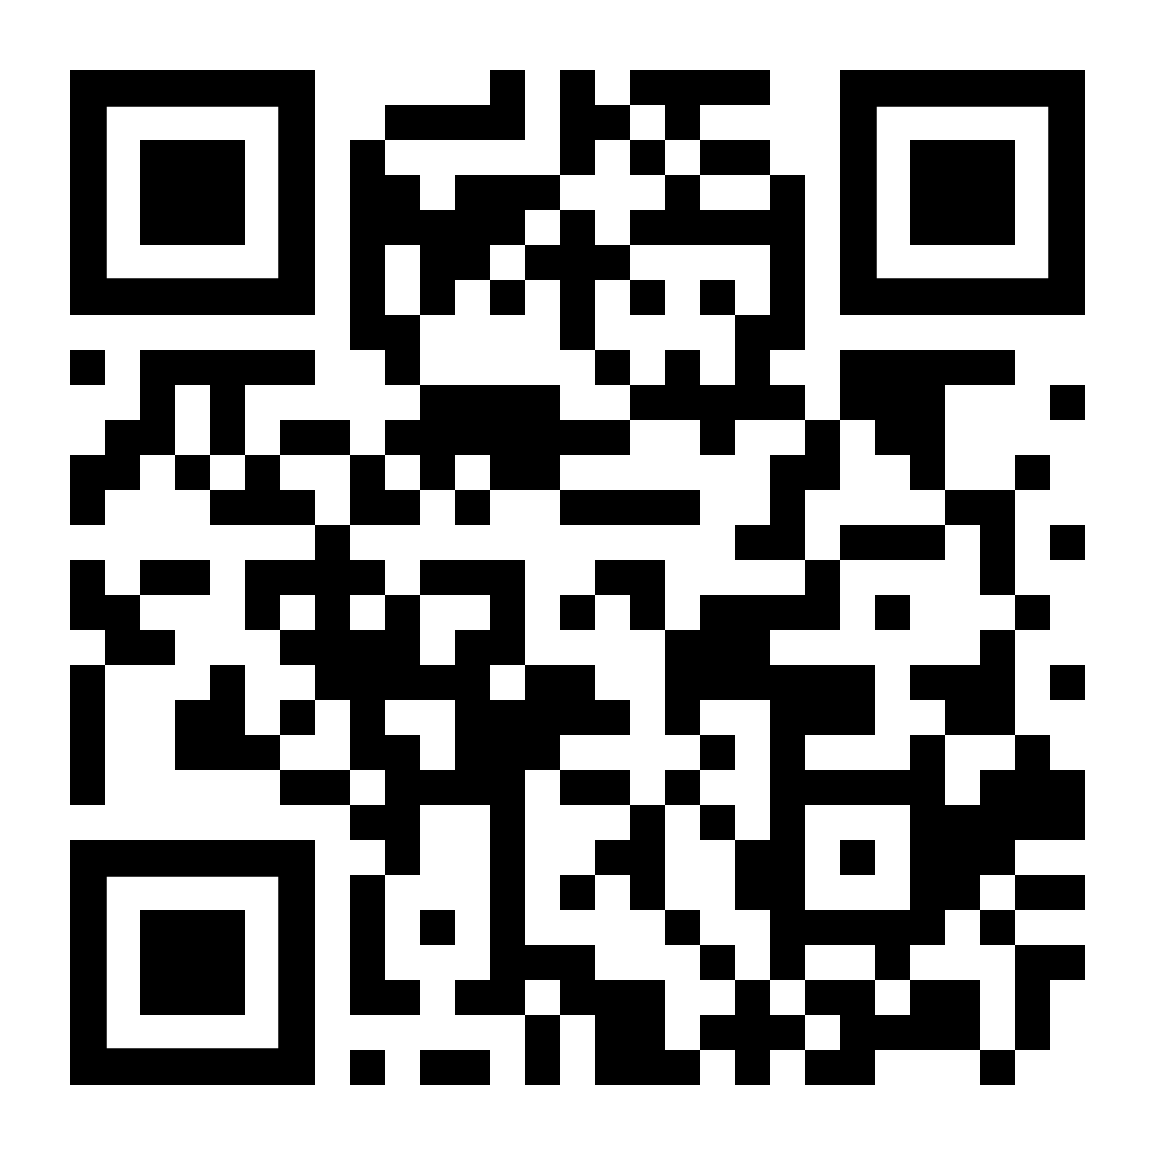
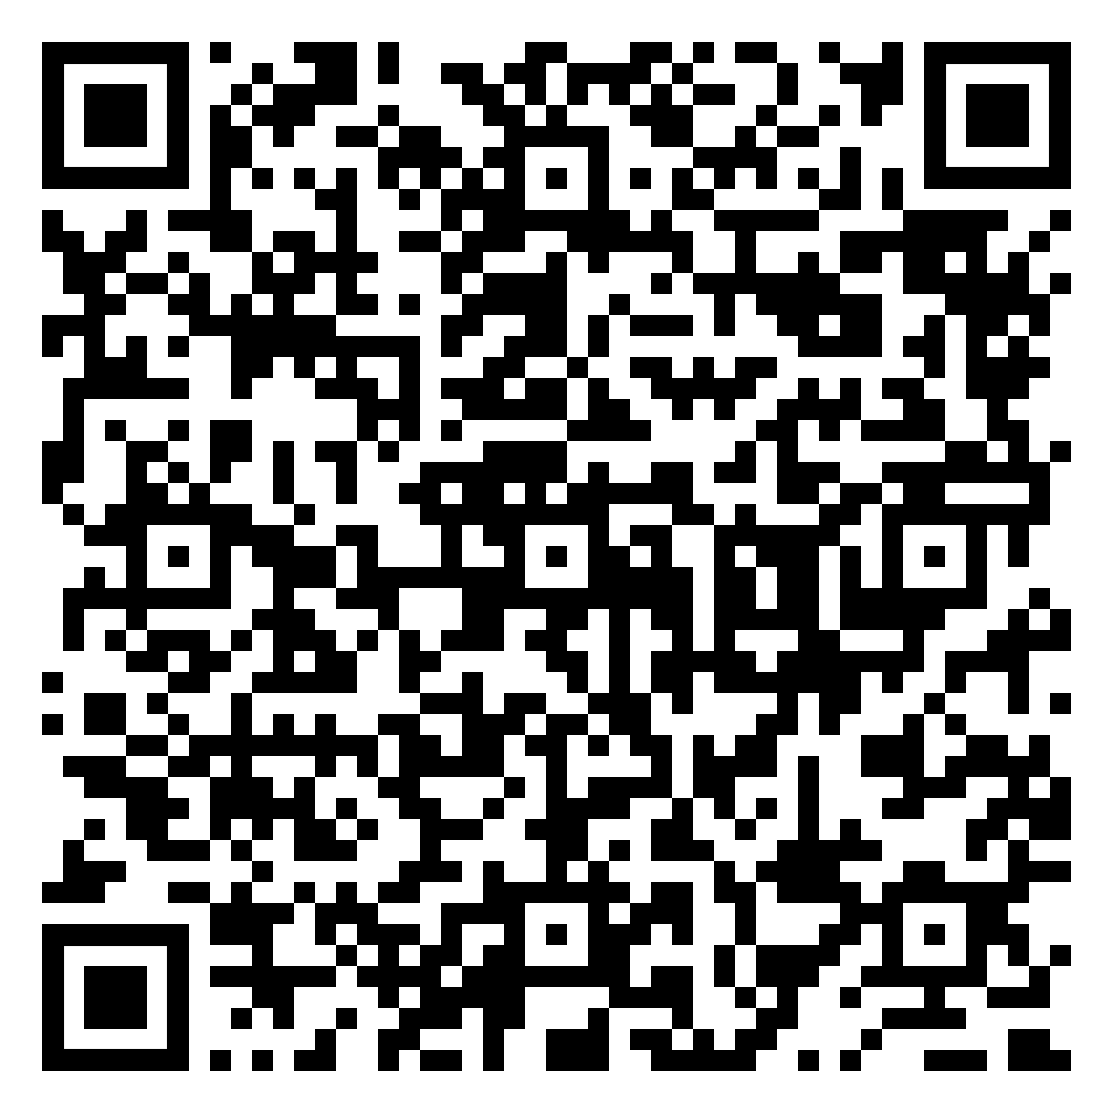
fix links

diff --git a/components/Process.tsx b/components/Process.tsx
@@ -10,7 +10,7 @@ const Process = (props: Props) => {
         Celoten proces razvoja tega projekta, si lahko ogledate na spodnji
         povezavi
       </p>
-      <a href="https://serssi-my.sharepoint.com/:w:/g/personal/edvin_becic_sers_si/EdtP3WHEyYVNjMAZx9bfQQ0BxhtFUmrYdNhuJwAzavUSzQ?e=sKTfEI">
+      <a href="https://serssi-my.sharepoint.com/:w:/g/personal/edvin_becic_sers_si/EfCO07FLOx5IjShni-Zhz3kBTQdLSLIig0cg3Pa5HOSPtg?e=97hcvk">
         Poglej dokument
       </a>
     </div>

diff --git a/components/Download.tsx b/components/Download.tsx
@@ -15,7 +15,9 @@ const Download = (props: Props) => {
       </p>
       <div className="inline">
         <Image className="qrCode" alt="qrCode" src={qrCode} />
-        <a href="http://ai2.appinventor.mit.edu/b/2bnu7">Prenesi</a>
+        <a href="https://serssi-my.sharepoint.com/:u:/g/personal/edvin_becic_sers_si/EXTWt7JY13tGi5bFnTz7H5IB0FWwC2XexO0eroIo2bcQGg?e=Oa8orN">
+          Prenesi
+        </a>
       </div>
     </div>
   );
